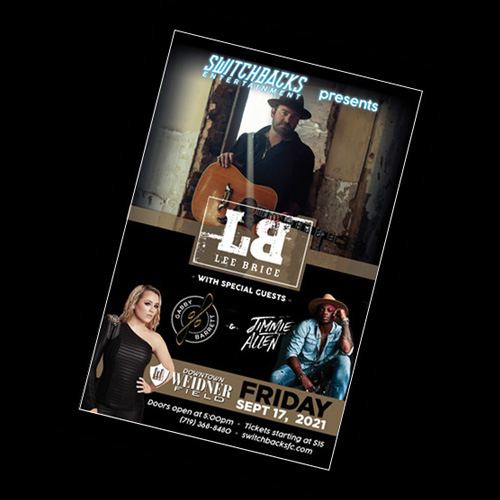
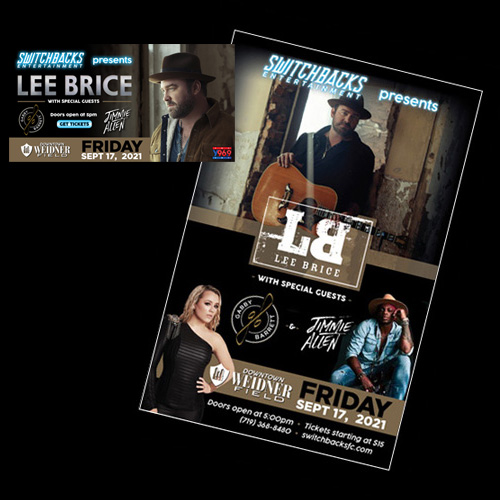
updated picts and text

diff --git a/src/profile.js b/src/profile.js
@@ -11,7 +11,7 @@ const background = {
 const section2title = "About Kasey...";
 const about = {
   paragraph:
-    "Innovative Art Director with success designing, managing and executing projects from start to end for a variety of high-profile clients/brands. Adept at frontend website design, SEO plans and execution for informational and ecommerce websites. Highly skilled in delivering innovative ideas for books, magazines, brochures, videos and print media with an expert level of Adobe Creative Suite software. Knowledge of JavaScript, React.js, HTML5, CSS3, Flexbox layouts, MySQL, Node.js, Express.js, MongoDB, Command Line, Git, WordPress, Mac OS X operating systems, networking, troubleshooting, and evolving technologies. Demonstrated leadership, organization, communication, interpersonal, presentation, creative thinking, and problem-solving skills. All websites, pictures, illustrations and paintings on this site are created by Kasey.",
+    "Innovative Art Director with success designing, managing and executing projects from start to end for a variety of high-profile clients/brands. Adept at frontend website design, SEO plans and execution for informational and ecommerce websites. Highly skilled in delivering innovative ideas for books, magazines, brochures, videos and print media with an expert level of Adobe Creative Suite software. Knowledge of JavaScript, React, HTML5, CSS3, Flexbox layouts, MySQL, Node, Express, MongoDB, Command Line, Git, WordPress, Mac OS X operating systems, networking, troubleshooting, and evolving technologies. Demonstrated leadership, organization, communication, interpersonal, presentation, creative thinking, and problem-solving skills. All websites, pictures, illustrations and paintings on this site are created by Kasey.",
 };
 // Edit your skill and the percentage you know about it
 // To Add a skill, copy any one below and paste it after the last comma
@@ -75,14 +75,14 @@ const projects = [
     id: "project1",
     name: "Slavens Racing | Ecommerce",
     skills: [
-      "Updated the design and incorported many plugin functions for this WordPress ecommerce site. Shipping calculator, wholesale site, fitment finder and SEO. Also enhanced email marketing and video editing. | HTML, CSS, WordPress, Photoshop, Illustrator",
+      "Updated some design elements and incorported many plugin functions for this WordPress ecommerce site. Shipping calculator, wholesale site, fitment finder and SEO. Also enhanced email marketing and video editing. | HTML, CSS, WordPress, Photoshop, Illustrator",
     ],
     url: "https://slavensracing.com",
   },
   {
     // Add image in './styles/images.css' in #project2
     id: "project2",
-    name: "BRP Racing Products | Ecommerce",
+    name: "BRP | Ecommerce",
     skills: [
       "Complete design and art direction for this WordPress site. Implemented fitment finder, shipping calculator, SEO strategies and streamlined user experience. | HTML, CSS, WordPress, Photoshop",
     ],
@@ -100,9 +100,9 @@ const projects = [
   {
     // Add image in './styles/images.css' in #project4
     id: "project4",
-    name: "Excavator Tek | Blog",
+    name: "Excavator Tek | Website Design",
     skills: [
-      "Complete design and art direction for this WordPress informational blog site for a excavator company. | HTML, CSS, Wordpress, Photoshop",
+      "Complete design and art direction for this WordPress informational blog site for a excavator company. Also designed and illustrated a new logo. | HTML, CSS, Wordpress, Photoshop",
     ],
     url: "https://excavatortek.com",
   },
@@ -111,7 +111,7 @@ const projects = [
     id: "project5",
     name: "Don't Smoke My Hat - Hemp Hats | Ecommerce",
     skills: [
-      "Complete design and art direction for this WordPress site for a online hemp hat retailer. | HTML, CSS, WordPress, Photoshop",
+      "Complete design and art direction for this WordPress site for a online hemp hat retailer. | HTML, CSS, WordPress, Photoshop, Photography",
     ],
     url: "https://dontsmokemyhat.com",
   },
@@ -140,8 +140,7 @@ const projects = [
     skills: [
       "Coding project to connect the front end and setup Mongo DB with Atlas. | HTML, CSS, JS, Mongo DB, Atlas, Photoshop",
     ],
-    url:
-      "https://limitless-crag-66215.herokuapp.com/?id=602bf784af7f55001513dab4",
+    url: "https://limitless-crag-66215.herokuapp.com/?id=602bf784af7f55001513dab4",
   },
   {
     // Add image in './styles/images.css' in #project6
@@ -167,15 +166,15 @@ const projects2 = [
   {
     // Add image in './styles/images.css' in #project1
     id: "project10",
-    name: "Craftsman Tool | Packaging Design",
-    skills: ["Photoshop, Illustrator"],
+    name: "Craftsman | Packaging & POP Design",
+    skills: ["Photoshop, Illustrator, Strict branding guidelines to follow"],
     // url: "https://slavensracing.com",
   },
   {
     // Add image in './styles/images.css' in #project2
     id: "project11",
-    name: "Ridgid Tool | Packaging Design",
-    skills: ["Photoshop, Illustrator"],
+    name: "Ridgid | Packaging & POP Design",
+    skills: ["Photoshop, Illustrator, Strict branding guidelines to follow"],
     // url: "https://shopbrp.com",
   },
   {
@@ -210,7 +209,7 @@ const projects2 = [
     // Add image in './styles/images.css' in #project6
     id: "project16",
     name: "Rocky Mountain Motorworks | Catalog Inside Spreads",
-    skills: ["Photoshop, Illustrator, InDesign"],
+    skills: ["Photoshop, Illustrator, InDesign, Prepress"],
     // url:
     //   "https://limitless-crag-66215.herokuapp.com/?id=602bf784af7f55001513dab4",
   },
@@ -218,7 +217,7 @@ const projects2 = [
     // Add image in './styles/images.css' in #project6
     id: "project17",
     name: "Rocky Mountain Motorworks | Catalog Inside Covers",
-    skills: ["Photoshop, Illustrator, InDesign"],
+    skills: ["Photoshop, Illustrator, InDesign, Prepress"],
     // url: "https://github.com/KcRaymond/Template-Engine",
   },
   {
@@ -231,7 +230,7 @@ const projects2 = [
   {
     // Add image in './styles/images.css' in #project6
     id: "project44",
-    name: "Switchbacks Soccer Team | Promotional Poster",
+    name: "Switchbacks Soccer | Posters & Credentials",
     skills: ["Photoshop, Illustrator"],
     // url:
     //   "https://limitless-crag-66215.herokuapp.com/?id=602bf784af7f55001513dab4",
@@ -239,14 +238,14 @@ const projects2 = [
   {
     // Add image in './styles/images.css' in #project6
     id: "project45",
-    name: "Switchbacks Soccer Team | Promotional Banner",
-    skills: ["Photoshop, Illustrator"],
+    name: "Switchbacks Soccer | Banner",
+    skills: ["Photoshop, Illustrator, Photography"],
     // url: "https://github.com/KcRaymond/Template-Engine",
   },
   {
     // Add image in './styles/images.css' in #project6
     id: "project46",
-    name: "Switchbacks Entertainment | Concert Poster",
+    name: "Switchbacks Entertainment | Concert Posters & Digital Ads",
     skills: ["Photoshop, Illustrator"],
     //   url: "https://kcraymond.github.io/LetsGetTrivial/",
   },
@@ -257,9 +256,7 @@ const projects3 = [
     // Add image in './styles/images.css' in #project1
     id: "project19",
     name: "Display Image | Trade Show Design & Production",
-    skills: [
-      "Back Lit Graphics, Large Banners, Corporate Interiors, Brochures, PowerPoint Presentations ",
-    ],
+    skills: ["Promotional Brochure | Photoshop, Illustrator, InDesign"],
     // url: "https://slavensracing.com",
   },
   {
@@ -272,14 +269,14 @@ const projects3 = [
   {
     // Add image in './styles/images.css' in #project3
     id: "project21",
-    name: "10 Foot Display | Trade Show",
+    name: "10 Foot Pop Up | Trade Show",
     skills: ["Photoshop, Illustrator"],
     // url: "src/images/Slavens Racing Magazine Ads.pdf",
   },
   {
     // Add image in './styles/images.css' in #project4
     id: "project22",
-    name: "Pop Up Banners | Trade Show",
+    name: "Portable Banners | Trade Show",
     skills: ["Photoshop, Illustrator"],
     // url: "https://excavatortek.com",
   },
@@ -308,21 +305,21 @@ const projects3 = [
   {
     // Add image in './styles/images.css' in #project6
     id: "project26",
-    name: "6 Foot Display | Trade Show",
+    name: "6 Foot Pop Up | Trade Show",
     skills: ["Photoshop, Illustrator"],
     // url: "https://github.com/KcRaymond/Template-Engine",
   },
   {
     // Add image in './styles/images.css' in #project6
     id: "project27",
-    name: "6 Foot Display | Trade Show",
-    skills: ["Photoshop, Illustrator"],
+    name: "6 Foot Pop Up | Trade Show",
+    skills: ["Photoshop, Illustrator, PowerPoint"],
     //   url: "https://kcraymond.github.io/LetsGetTrivial/",
   },
   {
     // Add image in './styles/images.css' in #project6
     id: "project40",
-    name: "10 Foot Display | Trade Show",
+    name: "10 Foot Pop Up | Trade Show",
     skills: ["Photoshop, Illustrator"],
     // url:
     //   "https://limitless-crag-66215.herokuapp.com/?id=602bf784af7f55001513dab4",
@@ -330,14 +327,14 @@ const projects3 = [
   {
     // Add image in './styles/images.css' in #project6
     id: "project41",
-    name: "6 Foot Display | Trade Show",
+    name: "6 Foot Pop Up | Trade Show",
     skills: ["Photoshop, Illustrator"],
     // url: "https://github.com/KcRaymond/Template-Engine",
   },
   {
     // Add image in './styles/images.css' in #project6
     id: "project42",
-    name: "10 Foot Display | Trade Show",
+    name: "10 Foot Pop Up | Trade Show",
     skills: ["Photoshop, Illustrator"],
     //   url: "https://kcraymond.github.io/LetsGetTrivial/",
   },
@@ -352,7 +349,7 @@ const projects4 = [
     id: "project29",
     name: "Commercial Restaurant Mural - Left Side | Acrylics & Spray Paint",
     skills: [
-      "Designed and painted entrance cove in downtown Colorado Springs at the East Coast Deli",
+      "Designed and painted entrance cove and interior graphics in downtown Colorado Springs at the East Coast Deli",
     ],
     // url: "https://slavensracing.com",
   },
@@ -420,7 +417,7 @@ const projects4 = [
     id: "project37",
     name: "Event Logo | Illustrator",
     skills: [
-      "Logo to promote the local event at the new Skateboard park for National Go Skateboarding Day.",
+      "Logo to promote the local event at the new skateboard park for national go skateboarding day.",
     ],
     // url:
     //   "https://limitless-crag-66215.herokuapp.com/?id=602bf784af7f55001513dab4",
@@ -456,7 +453,7 @@ const social = {
   linkedin: "https://www.linkedin.com/in/KLR-Designs/",
   instagram: "https://instagram.com",
   resume:
-    "https://drive.google.com/file/d/19NFZpgPt4r4-zRf40BFrwJBJ6fxiHuHg/view?usp=sharing",
+    "https://drive.google.com/file/d/1GTCEtn_zl62D6US6FjNVhA_cJ0zjBGo4/view?usp=sharing",
 };
 export {
   header,
